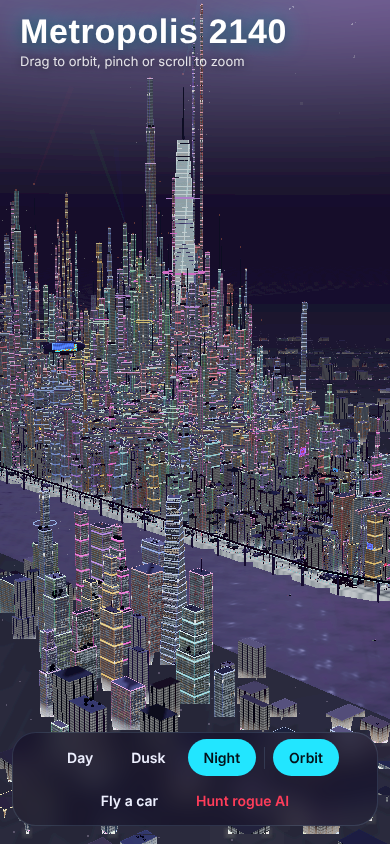
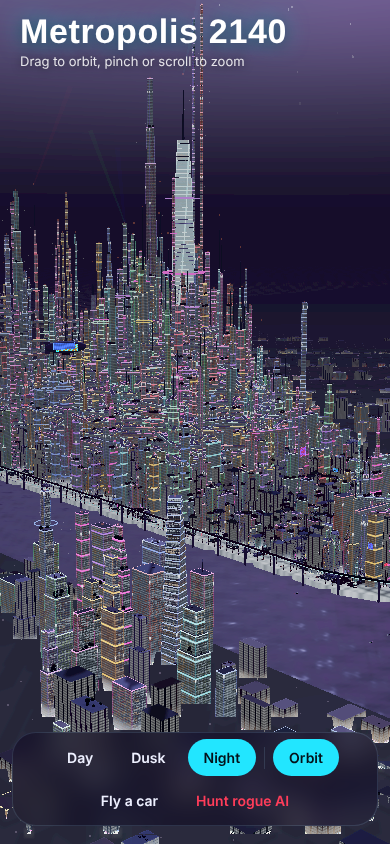
QA: 75-year-old persona report
Claude-Session: https://claude.ai/code/session_0112zBEZa5QRn6dY6iCzH8P8

diff --git a/qa/age-75.md b/qa/age-75.md
@@ -1,0 +1,60 @@
+# QA: Metropolis 2140 for a 75-year-old visitor
+
+Tester persona: 75, laptop with mouse/trackpad at 1366x768 (browser zoom sometimes 125–150%), sometimes a large-text iPad.
+Reading glasses, prefers calm motion (reduced-motion may be on), not a gamer, cautious, curious about the city's history.
+Build tested: `index.html` @ `7ec5f9e` (M-002 merged, 2181 lines). Headless Chromium + SwiftShader via scripts in the
+scratchpad `qa75/` folder (CDN routed to `tools/node_modules/three`, fonts stubbed, so the fallback system font is what renders).
+
+**Old vs new render.** Shots `age75-11-*` and `age75-12-*` were taken **before** M-002 (old, mostly black city). Treat them as
+evidence for the UI chrome only (title and dock at 150% zoom with a dark OS theme). Everything else is from the current build.
+
+## Session story
+I opened the link and got a lovely little picture: an old sepia skyline with smoke and a ship. The years counted up from 1910 to 2140
+and the old buildings sank while neon towers rose. The big year numbers were easy to read. The caption under them only said
+"Building Metropolis 2140" in small grey type, so I wasn't sure what the picture was telling me. With "reduce motion" on I went
+straight to the 2140 frame and missed the story altogether. Then the city appeared and it was beautiful. At Dusk the pink sky and
+glowing towers looked like a postcard. The line "Drag to orbit, pinch or scroll to zoom" was tiny white text under the big title,
+and I needed my glasses for it. The buttons along the bottom were clear words (Day, Dusk, Night, Orbit, Fly a car). But "Night"
+and "Orbit" were both dark, so I couldn't tell which was "the one I'd picked". I didn't know what "Orbit" meant.
+
+I clicked "Fly a car", twice to be safe. Nothing bad happened. But the car **was already moving** and I hadn't touched anything. The
+street was dazzlingly bright, and the only instructions were a line of white text at the bottom, written in game-speak ("W/S speed,
+A/D steer, Space climb, Shift descend…"), and I could barely see it against the glare. My mouse did nothing to steer. I didn't know
+what "Esc" was. Luckily there was a dark "Exit" button at the top right, and it took me straight back to the same city view I'd
+left. That was reassuring. Pressing the "Night" button up there changed the city to *Day*, which surprised me.
+
+## Findings
+
+| ID | Sev | What happened | Evidence | Suggestion |
+|---|---|---|---|---|
+| Q75-01 | major | **No way to fly with a mouse.** On desktop (`pointer:fine`) the touch stick and Up/Down/Boost buttons are hidden, and canvas drags and the wheel do nothing while driving (OrbitControls are disabled, and no mouse handlers feed `fwd`/`turn`). A mouse-only visitor cannot steer, climb or stop. | CSS 130 (stick only on `pointer:coarse`), JS 1713-1716, 1758-1760 (input comes only from keys/stick/vbtn) | Show the on-screen stick and Up/Down buttons for mouse users too (or click-and-drag-to-steer), at least until a key is pressed. |
+| Q75-02 | major | **Car moves on its own on entry**: `drive.speed=12`, so the HUD shows 33–35 km/h with no input. With no way to control it (Q75-01), a cautious user will feel they've "set something off". | JS 1713; `age75-31-zoom150-fly-start.png` (35 km/h, no keys pressed) | Spawn at 0 speed, hovering. Show a short first-time card such as "You're hovering. Use the arrows to move. Exit returns you to the city view." |
+| Q75-03 | major | **Key hint is unreadable and in jargon.** 13 px white text with only a text shadow sits on the very bright street, and it disappears in the render. It names W/S, A/D, Shift and Esc but never the **arrow keys**, which do work (line 1758) and are what a non-gamer would try. | HTML 214, CSS 121; `age75-31-…png`, `age75-32-…png`, `age75-42-…` (touch: hint hidden and nothing replaces it) | Put it on a solid panel at ≥16 px. Lead with "Arrow keys to steer and speed up · Page Up/Down or Up/Down buttons to climb · Exit button to leave". Spell out "Escape key". (The brightness itself is the known M-002 follow-up.) |
+| Q75-04 | major | **Reduced motion is only partly honoured.** The orbit auto-rotate and the loader animation are switched off, but in fly mode the speed-line overlay still appears (`speedfx` opacity 0.35 measured while boosting with `reducedMotion:'reduce'`), FOV still zooms on boost (+10°), the camera shakes on collisions (`Math.random` jitter), and a red flash plays on hits. | JS 1800, 1801, 1805, 1773; `age75-32-zoom150-boost.png` (streaks at left edge) | Under `prefers-reduced-motion`: no speedfx, no FOV kick, no shake, a soft hit cue instead of a red flash. |
+| Q75-05 | minor | **Reduced motion skips the whole 1910→2140 story.** The animations collapse to their final frame, so the loader shows only "2140" for ~7 s. The best history moment in the product is lost for exactly the audience that loves it. | CSS 182; `age75-0R-loader-1500ms.png` vs `age75-0L-loader-1000/3000/5200ms.png` | Under reduced motion, crossfade 3–4 still frames (1910 / 1960 / 2020 / 2140) slowly instead of cutting to the end. |
+| Q75-06 | minor | **The loader caption doesn't explain the story.** "Building Metropolis 2140" (14 px, #5a5672 on #e4e3f0 = 5.5:1) never says *what* the picture shows. After the loader there is no history text anywhere. | CSS 92, HTML 268 | Caption per era, e.g. "1910: the brick city… 2140: the neon city rises", at ≥16 px. Optionally add an "About this city" line or button in the dock. |
+| Q75-07 | minor | **Instructions are 13 px over the 3D scene** ("Drag to orbit, pinch or scroll to zoom", 86% white plus a shadow). They read OK over the night sky but are weak over the Day sky. | CSS 36, HTML 195; `age75-02-orbit-night.png`, `age75-33-…after-exit.png` (Day) | 15–16 px on a subtle dark backing; write "Drag with the mouse to look around · scroll wheel to zoom". |
+| Q75-08 | minor | **"Orbit" is unclear and looks like a 4th lighting mode.** It is a toggle for slow auto-rotation, but its pressed style is identical to the selected mood, so "Night" and "Orbit" both look selected. The dock's aria-label is "Lighting". After any drag it silently resumes rotating 5 s later. | HTML 197-203, CSS 44, JS 2153; `age75-02-…png`, `age75-41-ipad-dusk-orbit.png` | Rename it "Slow spin: on/off" (or a ⟳ icon with a label), style the toggle differently from the mood segment, and add a "Reset view" button for "how do I get back". |
+| Q75-09 | minor | **In-flight "Night" button is a state label, not an action.** Clicking "Night" switched to **Day** (measured: `Night -> Day`). It cycles Day→Dusk→Night. | HTML 209, JS 1735 | Label it "Lighting: Night ▸" or use the same three-way control as the dock. |
+| Q75-10 | minor | **Small targets and text.** Dock buttons are 37 px tall at 14 px, HUD buttons are 34 px tall at 13 px, gauge labels ("km/h", "metres up") are 12 px, and compass letters are 12 px. Everything is in `px`, so the iPad's Larger Text setting won't enlarge any of it (only browser zoom does). | CSS 42, 116, 118, 136; measured via `getBoundingClientRect` | Minimum 44 px targets and 16 px body/labels. Use `rem` so user text settings apply. |
+| Q75-11 | minor | **No "you are here" in fly mode until it's too late.** No district toast appeared in either fly run (the district check runs every 15th frame, and frames are slow headless, so this may differ live). The radar has no labels. | JS 1782 region (district toast); `age75-31`, `age75-42` | Show the district name right at spawn ("Downtown, Manhattan") and a "Back to overview" hint. |
+| Q75-12 | delight | **The 1910→2140 loader** is charming and legible: the year numerals are 62 px, #16132a on #e4e3f0 = 14.3:1. | `age75-0L-loader-1000ms.png`, `…3000ms.png`, `…5200ms.png` | Keep it, and lengthen the story beats (Q75-05/06). |
+| Q75-13 | delight | **Dusk is gorgeous**: a calm postcard view with a legible skyline. The new M-002 Night is also far more readable than the old black render. | `age75-41-ipad-dusk-orbit.png`, `age75-02-orbit-night.png` vs old `age75-12-…` | Consider Dusk as the default for first-time visitors. |
+| Q75-14 | delight | **Exit is safe and predictable**: the dark "Exit" pill is the most prominent HUD button, Escape also works, and both return to the exact orbit view the visitor left. Double-clicking "Fly a car" is harmless (the 2nd click lands on the canvas). | `age75-33-zoom150-after-exit.png`; JS 1722-1730 | Keep. Could add "Exit to city view" wording. |
+| Q75-15 | delight | **Plain-word buttons** (Day / Dusk / Night / Fly a car) and the layout holds at 150% zoom (911x512 CSS px): the dock fits, the HUD doesn't overlap, and the iPad touch stick and Boost/Up/Down buttons show. | `age75-31-…png`, `age75-42-ipad-fly-touch.png`, `age75-11-…` (old render, chrome only) | The touch stick has no visible label. Add "Steer" under it. |
+
+## Not verifiable headless
+- Sound (engine synth, Mute button) was not heard. Real frame rate and smoothness of orbit and flight are unknown: SwiftShader ran at
+  roughly one frame per tens of seconds with other agents rendering, so motion comfort is judged from the code, not by feel.
+- Fonts were stubbed, so Instrument Sans/Big Shoulders were not loaded. Sizes are CSS-measured, glyphs are the fallback font.
+- Fly-mode street brightness (`age75-31/32/42`) is the known post-M-002 follow-up. It is listed here only because it is why Q75-03's
+  hint text can't be read.
+
+## JS errors
+None recorded in any run (`pageerror`/`console.error` empty in 5 completed runs: loader x2 contexts, old zoom, new zoom fly, iPad).
+Two desktop 1366x768 runs timed out in Playwright actions because of SwiftShader load. They produced `age75-02-orbit-night.png` only.
+
+## Screenshots (qa/shots/)
+`age75-0L-loader-{1000,3000,5200,8000}ms.png` loader, normal motion · `age75-0R-loader-1500ms.png` loader, reduced motion at 150% zoom ·
+`age75-02-orbit-night.png` 1366x768 orbit (new) · `age75-11/12-zoom150-rm-*.png` **old render** · `age75-31/32/33-zoom150-*.png`
+150%-zoom equivalent, reduced motion: fly start, boost, after exit · `age75-41-ipad-dusk-orbit.png`, `age75-42-ipad-fly-touch.png` iPad portrait.
